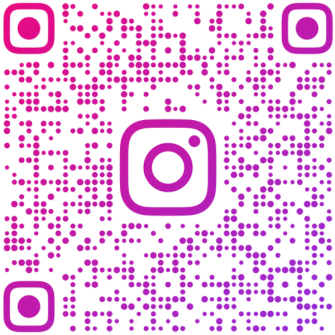
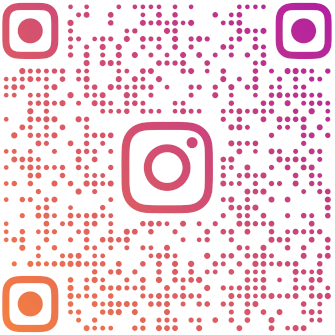
Alterarei o instagram

diff --git a/index.html b/index.html
@@ -30,10 +30,10 @@
             </div>
 
             <h1>
-                CONHEÇA A<br>
+                CONHEÇA O<br>
                 <strong>
-                    Jornada de<br>
-                    Programador
+                    Meu<br>
+                    Perfil
                 </strong>
             </h1>
 

diff --git a/js/events.js b/js/events.js
@@ -3,7 +3,7 @@ compartilhar.onclick = function() {
     código
 }
 */
-const URL_INSTAGRAM = "https://www.instagram.com/jornadadeprogramador/"
+const URL_INSTAGRAM = "https://www.instagram.com/jose_vitormoraes/"
 
 let compartilhar = document.getElementById("compartilharPerfilButton")
 
